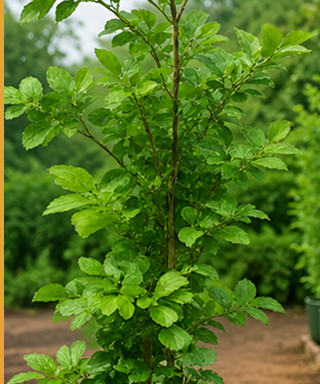
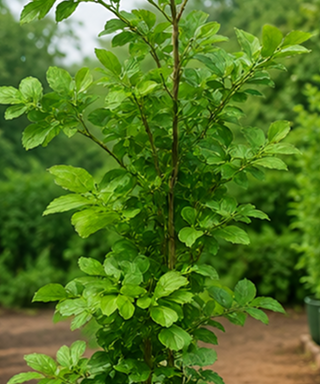
responsivelocation_UI

Changed region(s): [[0.0, 0.0, 0.0312, 1.0]]

diff --git a/src/pages/locationPage/_components/LocationAbout.jsx b/src/pages/locationPage/_components/LocationAbout.jsx
@@ -1,3 +1,11 @@
+import { useState } from "react";
+import { Swiper, SwiperSlide } from "swiper/react";
+import { Navigation } from "swiper/modules";
+import { Icon } from "@iconify/react";
+
+import "swiper/css";
+import "swiper/css/navigation";
+
 import ChennaiBg from "../../../assets/images/LocationImages/AboutLocationImages/ChennaiBg.png";
 import VectorLine from "../../../assets/images/LocationImages/AboutLocationImages/VectorLine.png";
 
@@ -5,6 +13,7 @@ import Plant1 from "../../../assets/images/LocationImages/AboutLocationImages/Pl
 import Plant2 from "../../../assets/images/LocationImages/AboutLocationImages/Plant2.png";
 import Plant3 from "../../../assets/images/LocationImages/AboutLocationImages/Plant3.png";
 import Plant4 from "../../../assets/images/LocationImages/AboutLocationImages/Plant4.png";
+import SlideCount from "../../../assets/images/LocationImages/AboutLocationImages/SlideCount.png";
 
 const locations = [
   {
@@ -20,18 +29,20 @@ const locations = [
 ];
 
 export default function LocationAbout() {
+  const [activeSlides, setActiveSlides] = useState({});
+
   return (
-    <section
-      className="relative py-6 md:py-10 overflow-hidden"
+    <section className="relative py-6 md:py-10 overflow-hidden">
+      <img
+        src={ChennaiBg}
+        alt="Background"
+        className="absolute inset-0 w-full h-full object-cover -z-10"
+      />
 
-    >
-      <img src={ChennaiBg} alt="Background" className="absolute inset-0 w-full h-full object-cover -z-10" />
-
-      {/* Content */}
       <div className="container z-10">
         {locations.map((location, index) => (
           <div key={index} className="my-10">
-            
+
             {/* Heading */}
             <div className="flex flex-col items-center text-center">
               <h2 className="text-4xl sm:text-5xl md:text-6xl lg:text-7xl xl:text-[72px] font-secondary uppercase text-yellow-primary">
@@ -41,16 +52,100 @@ export default function LocationAbout() {
               <img
                 src={VectorLine}
                 alt="Vector Line"
-                className="w-28 sm:w-36 md:w-44 lg:w-80 mt-2"
+                className="w-64 sm:w-72 md:w-80 lg:w-96 xl:w-[420px] mt-2 object-contain"
               />
-
-              <p className="mt-4 md:mt-6 text-yellow-secondary text-lg sm:text-xl md:text-2xl lg:text-3xl font-semibold">
+              
+              <p className="mt-4 md:mt-6 text-yellow-secondary text-xl sm:text-xl md:text-2xl lg:text-3xl font-semibold">
                 {location.subtitle}
               </p>
             </div>
 
-            {/* Images */}
-            <div className="mt-8 md:mt-10">
+            {/* MOBILE SLIDER */}
+            <div className="block md:hidden mt-8">
+              <Swiper
+                modules={[Navigation]}
+                slidesPerView={1}
+                loop={true}
+                spaceBetween={20}
+                navigation={{
+                  prevEl: `.prev-${index}`,
+                  nextEl: `.next-${index}`,
+                }}
+                onBeforeInit={(swiper) => {
+                  swiper.params.navigation.prevEl = `.prev-${index}`;
+                  swiper.params.navigation.nextEl = `.next-${index}`;
+                }}
+                onSwiper={(swiper) => {
+                  setTimeout(() => {
+                    swiper.navigation.destroy();
+                    swiper.navigation.init();
+                    swiper.navigation.update();
+                  });
+
+                  setActiveSlides((prev) => ({
+                    ...prev,
+                    [index]: swiper.realIndex,
+                  }));
+                }}
+                onSlideChange={(swiper) =>
+                  setActiveSlides((prev) => ({
+                    ...prev,
+                    [index]: swiper.realIndex,
+                  }))
+                }
+              >
+                {location.images.map((img, i) => (
+                  <SwiperSlide key={i}>
+                    <img
+                      src={img}
+                      alt={`${location.title} ${i + 1}`}
+                      className="w-full h-[380px] rounded-[32px] object-cover border border-yellow-secondary"
+                    />
+                  </SwiperSlide>
+                ))}
+              </Swiper>
+
+              {/* Navigation */}
+              <div className="flex items-center justify-center gap-4 mt-6">
+
+                {/* Previous Button */}
+                <button
+                  className={`prev-${index} w-10 h-10 rounded-full bg-[#E7C76B] flex items-center justify-center transition-all duration-300 hover:scale-110 active:scale-95`}
+                >
+                  <Icon
+                    icon="heroicons:chevron-left-20-solid"
+                    className="text-black text-[18px]"
+                  />
+                </button>
+
+                {/* Counter */}
+                <div className="relative w-[110px] h-[44px] flex items-center justify-center">
+                  <img
+                    src={SlideCount}
+                    alt="Slide Count"
+                    className="absolute inset-0 w-full h-full object-contain"
+                  />
+
+                  <span className="relative z-10 flex items-center justify-center w-full h-full text-black text-base font-semibold">
+                    {(activeSlides[index] ?? 0) + 1}/{location.images.length}
+                  </span>
+                </div>
+
+                {/* Next Button */}
+                <button
+                  className={`next-${index} w-10 h-10 rounded-full bg-[#E7C76B] flex items-center justify-center transition-all duration-300 hover:scale-110 active:scale-95`}
+                >
+                  <Icon
+                    icon="heroicons:chevron-right-20-solid"
+                    className="text-black text-[18px]"
+                  />
+                </button>
+
+              </div>
+            </div>
+
+            {/* TABLET & DESKTOP GRID */}
+            <div className="hidden md:block mt-8 md:mt-10">
               <div className="grid grid-cols-2 lg:grid-cols-4 gap-3 md:gap-4">
                 {location.images.map((img, i) => (
                   <div
@@ -66,6 +161,7 @@ export default function LocationAbout() {
                 ))}
               </div>
             </div>
+
           </div>
         ))}
       </div>

diff --git a/src/layout/Footer.jsx b/src/layout/Footer.jsx
@@ -10,43 +10,105 @@ export default function Footer() {
       }}
     >
       <div className="container">
-        <div className="bg-[#021A17] border-2 border-[#C89B3C] rounded-2xl lg:rounded-[24px] px-5 sm:px-6 md:px-8 lg:px-10 py-6 md:py-8">
 
-          {/* Top Row */}
-          <div className="flex flex-col md:flex-row items-center justify-between gap-6 md:gap-4">
+        {/* Mobile outside margin */}
+        <div className="mx-5 md:mx-0">
 
-            {/* Phone Icon */}
-            <div className="w-12 h-12 sm:w-14 sm:h-14 lg:w-16 lg:h-16 rounded-full bg-[#C89B3C] flex items-center justify-center flex-shrink-0">
-              <Icon
-                icon="gg:phone"
-                className="text-white text-5xl"
-              />
+          <div className="bg-[#021A17] border-2 border-[#C89B3C] rounded-2xl lg:rounded-[24px] px-5 sm:px-6 md:px-8 lg:px-10 py-6 md:py-8">
+
+            {/* ================= MOBILE ================= */}
+            <div className="md:hidden flex flex-col items-center">
+
+              {/* Plant Icon + Heading */}
+              <div className="flex items-start gap-3">
+
+                {/* Plant Icon */}
+                <div className="w-10 h-10 rounded-full bg-[#C89B3C] flex items-center justify-center flex-shrink-0 mt-1">
+                  <Icon
+                    icon="mdi:sprout"
+                    className="text-white text-xl"
+                  />
+                </div>
+
+                {/* Heading */}
+                <div>
+                  <h2 className="text-[#D9A52B] font-outfit font-semibold uppercase text-xl leading-tight">
+                    BOOK YOUR DIVINE
+                  </h2>
+
+                  <h2 className="text-[#D9A52B] font-outfit font-semibold uppercase text-xl leading-tight">
+                    PLANT TODAY!
+                  </h2>
+                </div>
+
+              </div>
+
+              {/* Phone Number */}
+              <div className="flex items-center gap-3 mt-6">
+
+                {/* Phone Icon */}
+                <div className="w-10 h-10 rounded-full bg-[#C89B3C] flex items-center justify-center">
+                  <Icon
+                    icon="gg:phone"
+                    className="text-white text-xl"
+                  />
+                </div>
+
+                <h1 className="text-white font-primary text-2xl font-medium">
+                  +91 7904105103
+                </h1>
+
+              </div>
+
+              {/* Website */}
+              <h3 className="mt-5 text-center text-[#D9A52B] font-primary text-2xl font-semibold">
+                Mahavilvam@Aimhi
+              </h3>
+
             </div>
 
-            {/* Heading */}
-            <h2 className="subheading gradient-text !font-outfit">
-              BOOK YOUR DIVINE PLANT TODAY!
-            </h2>
+            {/* ================= TABLET & DESKTOP ================= */}
+            <div className="hidden md:block">
 
-            {/* Plant Icon */}
-            <div className="w-12 h-12 sm:w-14 sm:h-14 lg:w-16 lg:h-16 rounded-full bg-[#C89B3C] flex items-center justify-center flex-shrink-0">
-              <Icon
-                icon="mdi:sprout"
-                className="text-white text-5xl"
-              />
+              {/* Top Row */}
+              <div className="flex items-center justify-between gap-6">
+
+                {/* Phone Icon */}
+                <div className="w-12 h-12 sm:w-14 sm:h-14 lg:w-16 lg:h-16 rounded-full bg-[#C89B3C] flex items-center justify-center">
+                  <Icon
+                    icon="gg:phone"
+                    className="text-white text-5xl"
+                  />
+                </div>
+
+                {/* Heading */}
+                <h2 className="subheading gradient-text !font-outfit text-center">
+                  BOOK YOUR DIVINE PLANT TODAY!
+                </h2>
+
+                {/* Plant Icon */}
+                <div className="w-12 h-12 sm:w-14 sm:h-14 lg:w-16 lg:h-16 rounded-full bg-[#C89B3C] flex items-center justify-center">
+                  <Icon
+                    icon="mdi:sprout"
+                    className="text-white text-5xl"
+                  />
+                </div>
+
+              </div>
+
+              {/* Phone Number */}
+              <h1 className="text-center text-white !font-primary heading mt-6">
+                +91 7904105103
+              </h1>
+
+              {/* Website */}
+              <h3 className="text-center gold-gradient-text !font-primary subheading !text-4xl xl:!text-7xl">
+                Mahavilvam@Aimhi
+              </h3>
+
             </div>
 
           </div>
-
-          {/* Phone Number */}
-          <h1 className="text-center text-white !font-primary heading">
-           + 91 7904105103
-          </h1>
-
-          {/* Website */}
-          <h3 className="text-center gold-gradient-text !font-primary subheading !text-6xl ">
-            Mahavilvam@Aimhi
-          </h3>
 
         </div>
       </div>

diff --git a/src/components/ReusableHeroSection.jsx b/src/components/ReusableHeroSection.jsx
@@ -20,7 +20,7 @@ export default function ReusableHeroSection({
 
             {/* Background Opacity Text */}
 
-            <div className="absolute left-1/2 top-[60%] lg:top-1/2 -translate-x-1/2 -translate-y-1/2 z-10 pointer-events-none w-full flex justify-center">
+            <div className="absolute left-1/2 top-[50%] lg:top-1/2 -translate-x-1/2 -translate-y-1/2 z-10 pointer-events-none w-full flex justify-center">
                 <h1 className="w-[90%] lg:w-full text-center text-yellow-primary font-primary font-bold uppercase opacity-15 leading-none text-[60px] sm:text-[80px] md:text-[100px] lg:text-[170px] xl:text-[190px]">
                     {title1}
                     <br />
